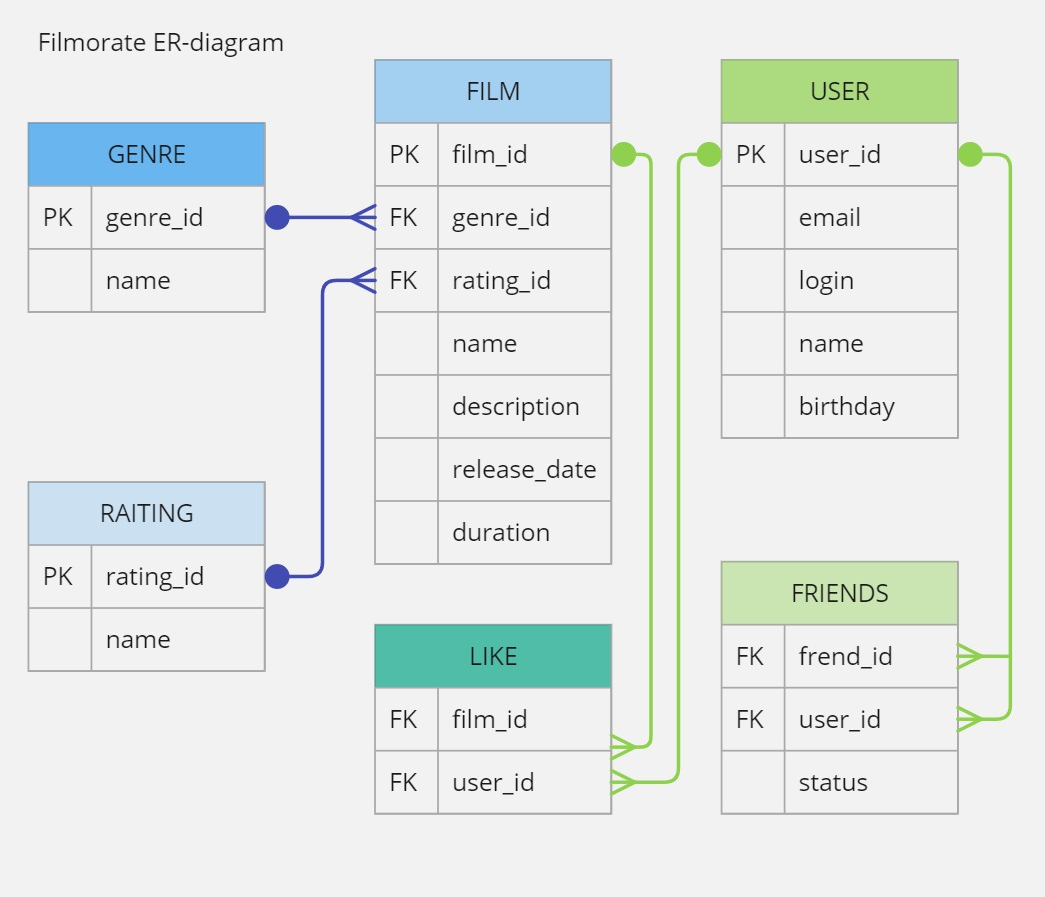
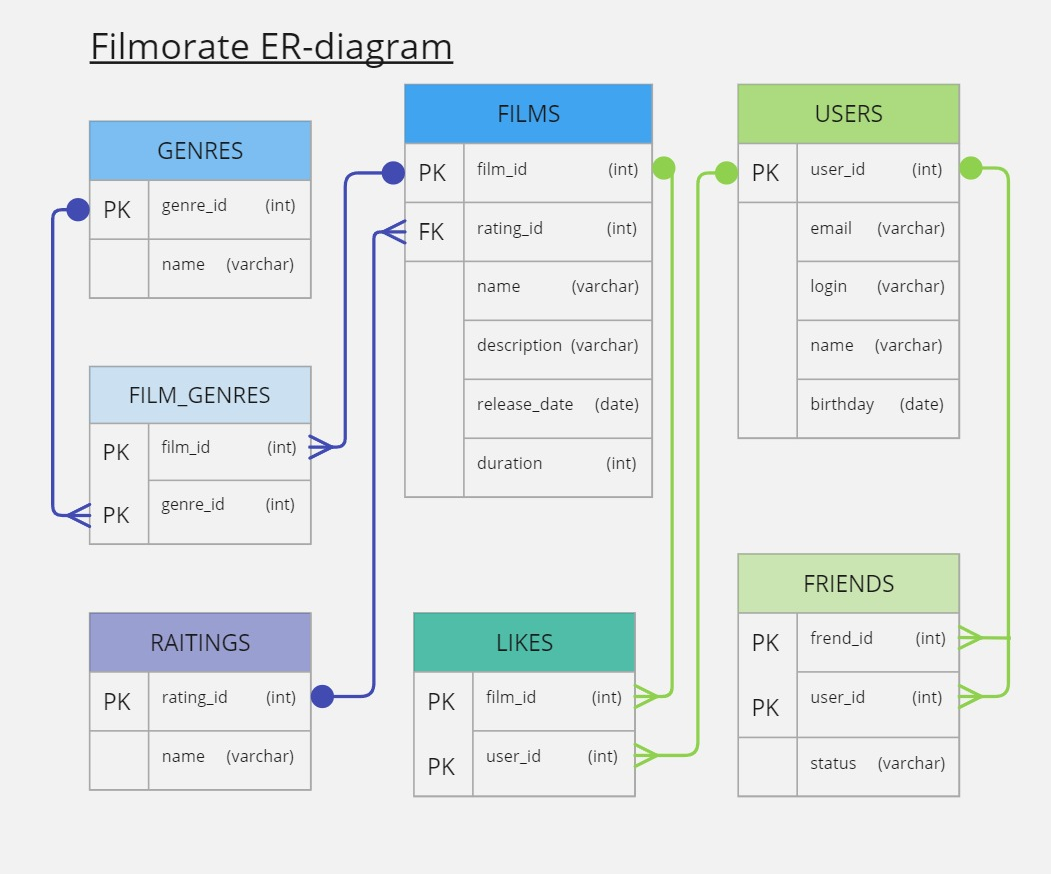
ТЗ 11. ER-diagram.review

Changed region(s): [[0.0, 0.0309, 0.9799, 0.9268], [0.1225, 0.8341, 0.1837, 0.865]]

diff --git a/README.md b/README.md
@@ -146,7 +146,7 @@
 - Триллер.
 - Документальный.
 - Боевик.
--
+
 2. Ещё одно свойство — рейтинг Ассоциации кинокомпаний (англ. Motion Picture Association, сокращённо МРА). Эта оценка определяет возрастное ограничение для фильма. Значения могут быть следующими:
 - G — у фильма нет возрастных ограничений,
 - PG — детям рекомендуется смотреть фильм с родителями,
@@ -181,23 +181,22 @@
 
 ![ER-diagram](er_diagram.png)
 
+В таблицах FRIENDS, LIKES, FILM_GENRES первичные ключи
+составные.
+
 Примеры запросов:
+
 1. Получение количества лайков у фильма с ID = 1:  
-   SELECT l.film_id,  
-   COUNT(l.user_id) AS likes  
-   FROM like AS l  
-   WHERE l.film_id = 1  
+   SELECT film_id,  
+   COUNT(user_id) AS all_likes  
+   FROM likes  
+   WHERE film_id = 1  
    GROUP BY film_id;
 
 
-2. Получение наименования, описания и лайков у фильма с ID = 1:  
-   SELECT f.name AS film_name,  
-   f.description AS film_description,  
-   likes  
-   FROM film as f  
-   JOIN (SELECT COUNT(l.user_id) AS likes  
-   FROM like AS l  
-   GROUP BY film_id;)  
-   ON f.film_id = l.film_id  
-   WHERE f.film_id = 1;
+2. Получение наименования и описания фильма с ID = 1:  
+   SELECT name AS film_name,  
+   description AS film_description  
+   FROM films  
+   WHERE film_id = 1;
 </details> 
